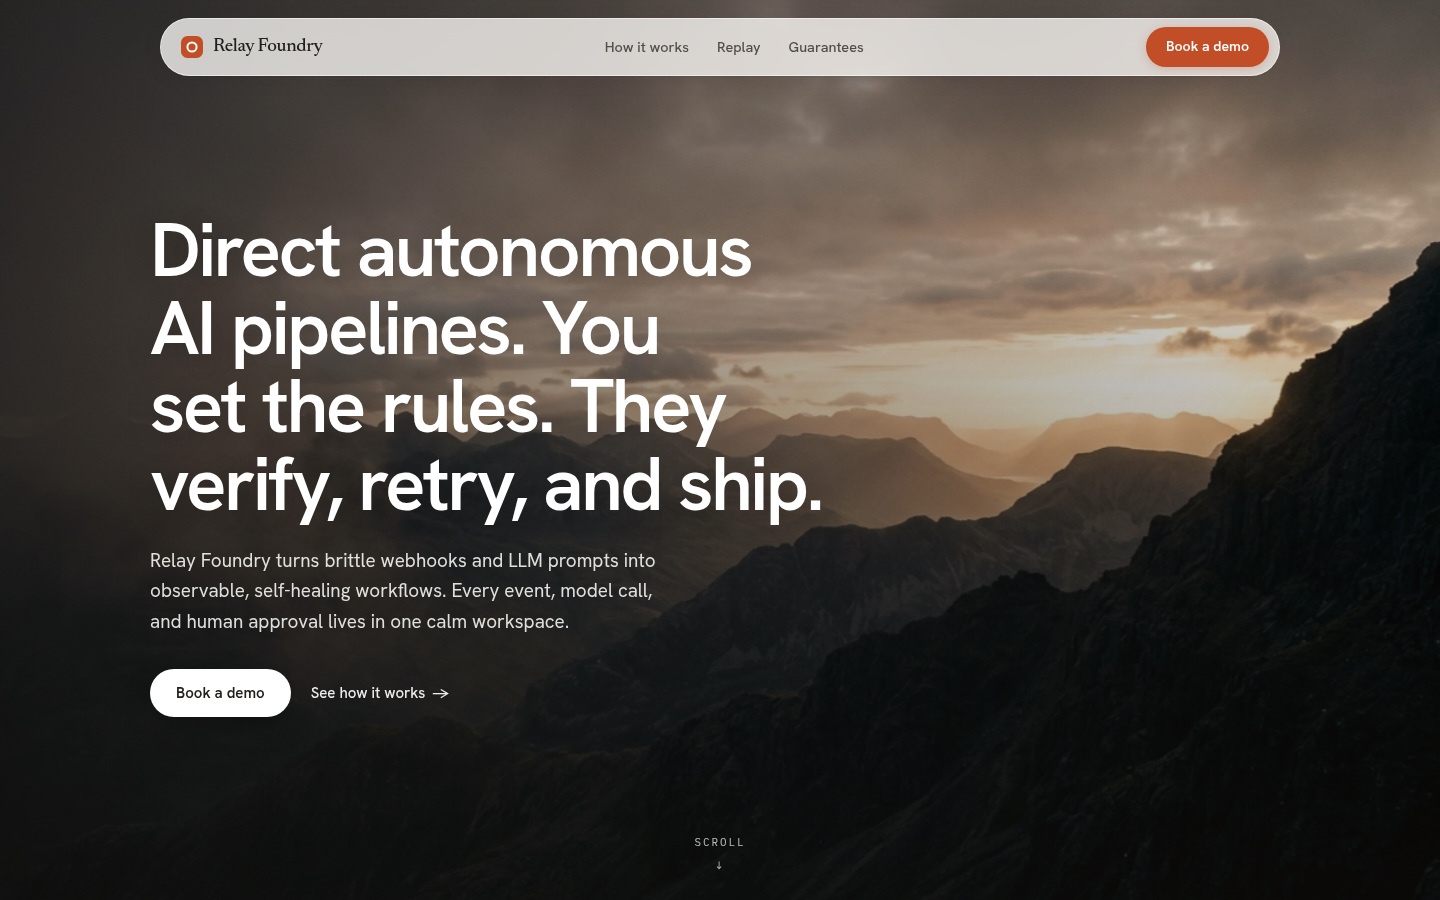
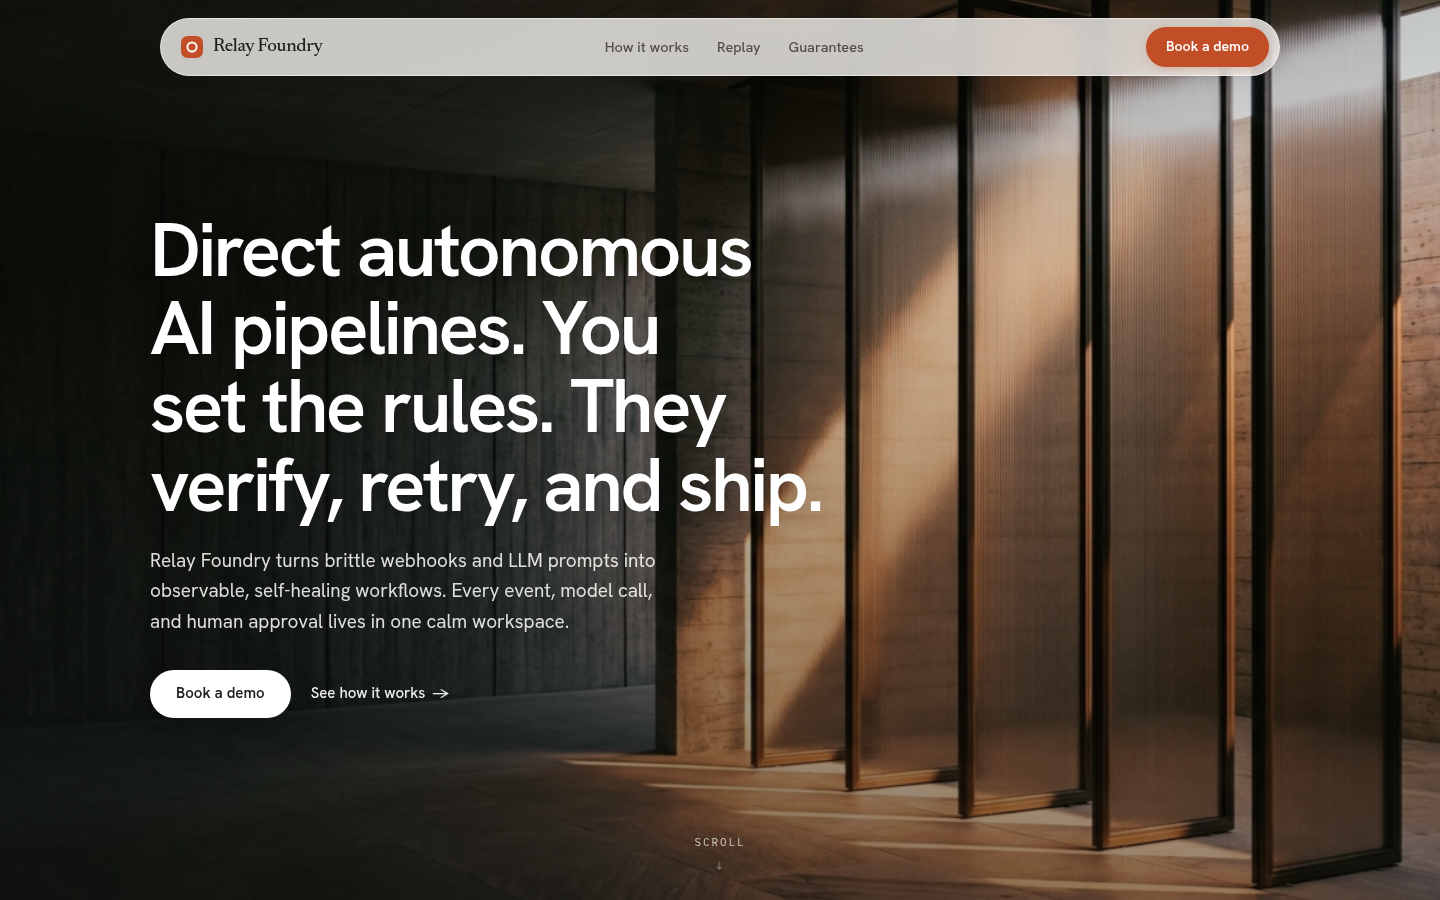
v18: swap /ai-studio/ hero to architectural concrete and fluted-glass pavilion photograph

diff --git a/ai-studio/index.html b/ai-studio/index.html
@@ -170,7 +170,7 @@
       width: 100%;
       height: 100%;
       object-fit: cover;
-      object-position: center 42%;
+      object-position: center center;
       transform: scale(1.04);
       animation: heroDrift 22s var(--ease) infinite alternate;
     }
@@ -184,8 +184,8 @@
       position: absolute;
       inset: 0;
       background:
-        linear-gradient(95deg, rgba(19, 17, 15, 0.64) 0%, rgba(19, 17, 15, 0.34) 48%, rgba(19, 17, 15, 0.12) 100%),
-        linear-gradient(180deg, rgba(19, 17, 15, 0.22) 0%, transparent 32%, rgba(19, 17, 15, 0.45) 100%);
+        linear-gradient(96deg, rgba(16, 14, 12, 0.48) 0%, rgba(16, 14, 12, 0.22) 48%, rgba(16, 14, 12, 0.04) 100%),
+        linear-gradient(180deg, rgba(16, 14, 12, 0.18) 0%, transparent 30%, rgba(16, 14, 12, 0.36) 100%);
     }
 
     .hero-content {
@@ -926,7 +926,7 @@
   <main id="top">
     <!-- FULL-BLEED ATMOSPHERIC CINEMA HERO -->
     <section class="hero">
-      <img src="./assets/hero-dawn.jpg" alt="" class="hero-bg" />
+      <img src="./assets/hero-pavilion.jpg" alt="" class="hero-bg" />
       <div class="hero-scrim" aria-hidden="true"></div>
 
       <div class="wrap">
